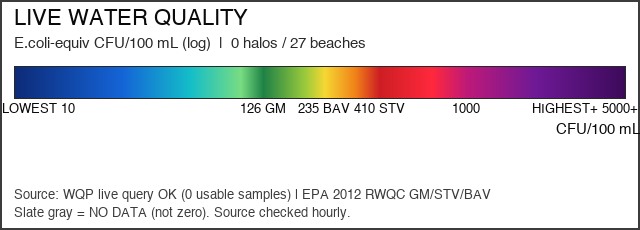
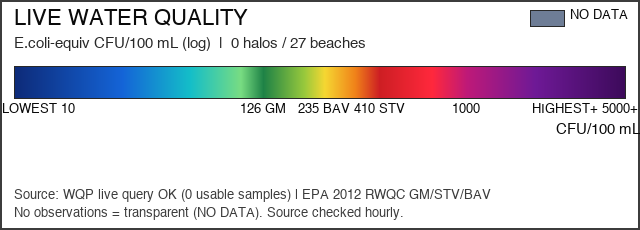
Water Quality NO DATA goes transparent; aurora floor 1.0

Changed region(s): [[0.0, 0.8826, 0.625, 0.9435], [0.8125, 0.0304, 1.0, 0.1217]]

diff --git a/scripts/build_bacteria.py b/scripts/build_bacteria.py
@@ -20,7 +20,7 @@ Authoritative basis:
 No basin-wide continuous bacterial raster exists (EPA programs are
 station-based); this layer therefore NEVER fabricates measurements:
   - water with a defensible observation -> 13-step gradient halo
-  - water without one -> explicit NO DATA slate (never zero/low)
+  - water without one -> transparent NO DATA (never zero/low)
 
 Coverage: 100% of the five Great Lakes water surfaces via the shared
 NOAA shoreline mask (land transparent). US + Canadian water included;
@@ -76,7 +76,8 @@ KML_FILE = "Great_Lakes_Live_Water_Quality.kml"
 OVERLAY_NAME = "\U0001F4A7 LIVE WATER QUALITY"
 SKIP_NOTE = "Turn on/off independently of all other layers."
 WATER_ALPHA = 205
-NODATA_RGB = (110, 125, 150)  # explicit NO DATA slate over water
+NODATA_RGB = (110, 125, 150)  # NO DATA key swatch (legend only; on the
+# map NO DATA water stays transparent so a gap never reads as clean)
 Halo_R = 14  # px splat radius per monitoring station (~ display only)
 UA = {"User-Agent": "great-lakes-live-environment/1.0"}
 
@@ -417,6 +418,14 @@ def draw_log_legend(path, title, subtitle, unit_label, ticks, source_line, note=
         d.text((min(max(x - tw / 2, 2), W - tw - 2), by + bh + 4),
                text, font=f_small, fill=(10, 10, 10))
     d.text((bx + bw - 70, by + bh + 24), unit_label, font=f_body, fill=(10, 10, 10))
+    # NO DATA key swatch (top-right): slate box + label. On the map itself
+    # NO DATA water is transparent; the swatch preserves the distinction
+    # between "no observation" and "low/zero" inside the key image.
+    sx, sy, sw, sh = W - 110, 10, 34, 16
+    d.rectangle([sx, sy, sx + sw, sy + sh], fill=NODATA_RGB + (255,),
+                outline=(40, 40, 40))
+    d.text((sx + sw + 6, sy - 2), "NO DATA", font=f_small,
+           fill=(10, 10, 10))
     d.text((14, H - 42), source_line, font=f_small, fill=(60, 60, 60))
     if note:
         d.text((14, H - 24), note, font=f_small, fill=(60, 60, 60))
@@ -485,10 +494,11 @@ def _build(obs_rows, query_url, fetch_ok, fetch_note, source_id):
     wm = load_watermask()
     water = wm >= 0.5
 
-    # Base: explicit NO DATA slate over 100% of lake water; land transparent.
+    # Base: fully transparent. Water WITHOUT a live observation stays
+    # transparent (explicit NO DATA treatment — never zero/low fill, so a
+    # missing observation can never read as clean water). Observation
+    # halos paint only on lake water below.
     rgba = np.zeros((H, W, 4), dtype=np.uint8)
-    rgba[water, 0:3] = NODATA_RGB
-    rgba[water, 3] = WATER_ALPHA
 
     # Halo field: E.coli-equivalent per pixel (NaN = no observation).
     halo = np.full((H, W), np.nan)
@@ -541,7 +551,7 @@ def _build(obs_rows, query_url, fetch_ok, fetch_note, source_id):
         os.path.join(stage_prod, "legend.png"), "LIVE WATER QUALITY", subtitle,
         "CFU/100 mL", BACTERIA_TICKS,
         f"Source: {fetch_note} | EPA 2012 RWQC GM/STV/BAV",
-        note="Slate gray = NO DATA (not zero). Source checked hourly.")
+        note="No observations = transparent (NO DATA). Source checked hourly.")
     scale_html = (
         f"Human-health concern from fecal-indicator evidence, FIXED log scale "
         f"(E.coli-equiv CFU/100 mL): <b>DARK BLUE 10</b> (no detected/lowest) &rarr; "
@@ -551,7 +561,8 @@ def _build(obs_rows, query_url, fetch_ok, fetch_note, source_id):
         f"<b>ORANGE 320</b> (high) &rarr; <b>RED 410</b> (very high, EPA STV) &rarr; "
         f"<b>NEON RED 700</b> (extremely high) &rarr; <b>MAGENTA 1000</b> (severe) &rarr; "
         f"<b>PURPLE 2000</b> (extremely severe) &rarr; <b>DARK PURPLE HIGHEST+ 5000+</b> (extreme). "
-        f"<b>LOWEST 10</b>. Slate gray water = <b>NO DATA</b>, never zero bacteria.")
+        f"<b>LOWEST 10</b>. Water without observations stays transparent (<b>NO DATA</b>, "
+        f"slate swatch in key) — never zero bacteria.")
     meta = base_metadata(
         PRODUCT, CONFIG["title"], CONFIG["freshness_label"],
         CONFIG["source_name"], CONFIG["source_url"], CONFIG["variable"],
@@ -562,7 +573,8 @@ def _build(obs_rows, query_url, fetch_ok, fetch_note, source_id):
                           f"{Halo_R}px display only — no interpolation between stations, no modeled fill",
         color_min=10.0, color_max=BACTERIA_MAX, color_units="E.coli-equiv CFU/100 mL",
         missing_data_treatment=(
-            "NO authoritative observation -> slate NO DATA over water (never zero/low). "
+            "NO authoritative observation -> water stays transparent (explicit NO DATA; "
+            "never zero/low fill). "
             "Observations older than 7 days are stale -> NO DATA. "
             "Land always transparent (shore mask)."))
     meta["legend_size"] = [lw, lh]
@@ -611,7 +623,8 @@ def _build(obs_rows, query_url, fetch_ok, fetch_note, source_id):
         f"<p>Available authoritative evidence of human-health-relevant bacterial/fecal contamination in Great "
         f"Lakes recreational waters, as one unified concern spectrum ({color_list}). Dark blue = no detected "
         f"contamination / lowest measured condition; dark purple = extremely high contamination / extremely poor "
-        f"human-health water condition. Slate gray water = NO DATA.</p>"
+        f"human-health water condition. Water without a live observation stays transparent "
+        f"(NO DATA — see the slate swatch in the key).</p>"
         f"<h2>Source / Study</h2>"
         f"<p><b>Measures:</b> fecal-indicator bacteria — E. coli and enterococci (CFU/100 mL) — from the USGS "
         f"Water Quality Portal (WQX discrete samples) within EPA's BEACH/BEACON recreational-water framework.<br/>"
@@ -631,7 +644,7 @@ def _build(obs_rows, query_url, fetch_ok, fetch_note, source_id):
         f"<p><b>Standards behind the colors:</b> EPA 2012 RWQC — E. coli GM 126 / STV 410, enterococci GM 35 / "
         f"STV 130, Beach Action Value E. coli 235 (notification level). Full per-color value/unit/threshold/source/"
         f"rationale table is in metadata.json `thresholds`.</p>"
-        f"<p><b>NO DATA ≠ zero:</b> slate gray means no defensible observation exists there — it must never be read "
+        f"<p><b>NO DATA ≠ zero:</b> transparent water means no defensible observation exists there — it must never be read "
         f"as clean water. A missing observation never becomes zero bacteria.</p>"
         f"<p><b>Coverage:</b> the visual layer spans 100% of the five Great Lakes water surfaces (US + Canadian "
         f"waters; unrelated inland lakes excluded; land transparent), while measured-data availability varies — "

diff --git a/scripts/validate_outputs.py b/scripts/validate_outputs.py
@@ -66,7 +66,7 @@ PRODUCTS = {
     "aurora": {"kml": "Great_Lakes_Live_Ovation_Aurora_Forecast.kml",
                "max_opaque_min": 0},  # quiet-oval intervals => transparent OK (like clear-sky cloud)
     "bacteria": {"kml": "Great_Lakes_Live_Water_Quality.kml",
-                 "max_opaque_min": 100},  # NO DATA slate covers all lake water
+                 "max_opaque_min": 0},  # NO DATA water is transparent; halos only where sampled
     "gamefish_walleye": {"kml": "WALLEYE_LIVE.kml",
                          "max_opaque_min": 10_000},
     "gamefish_yellow_perch": {"kml": "YELLOW_PERCH_LIVE.kml",
